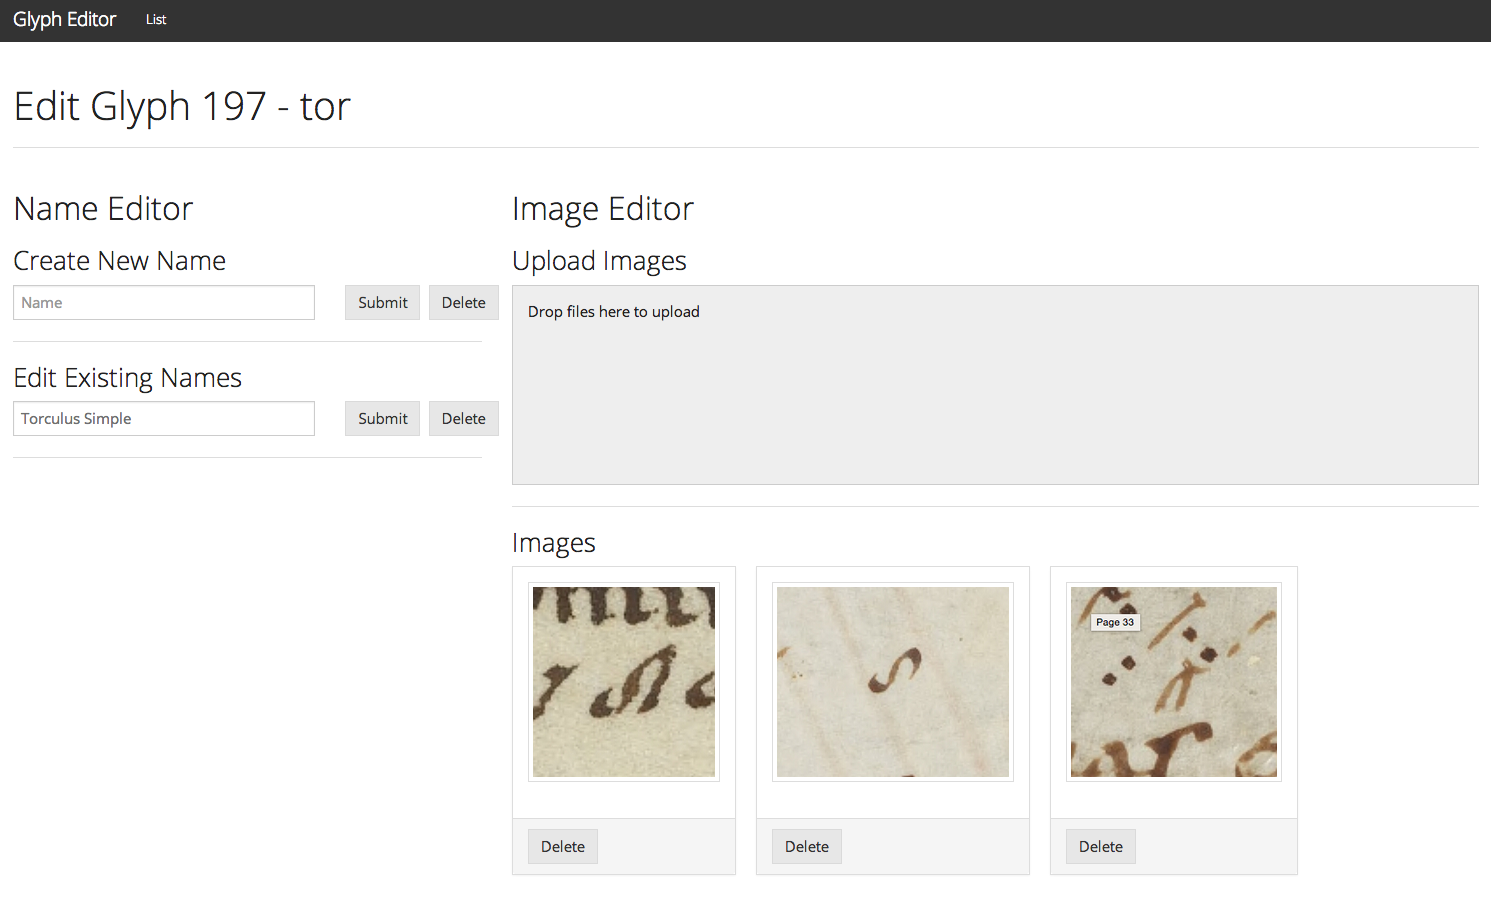
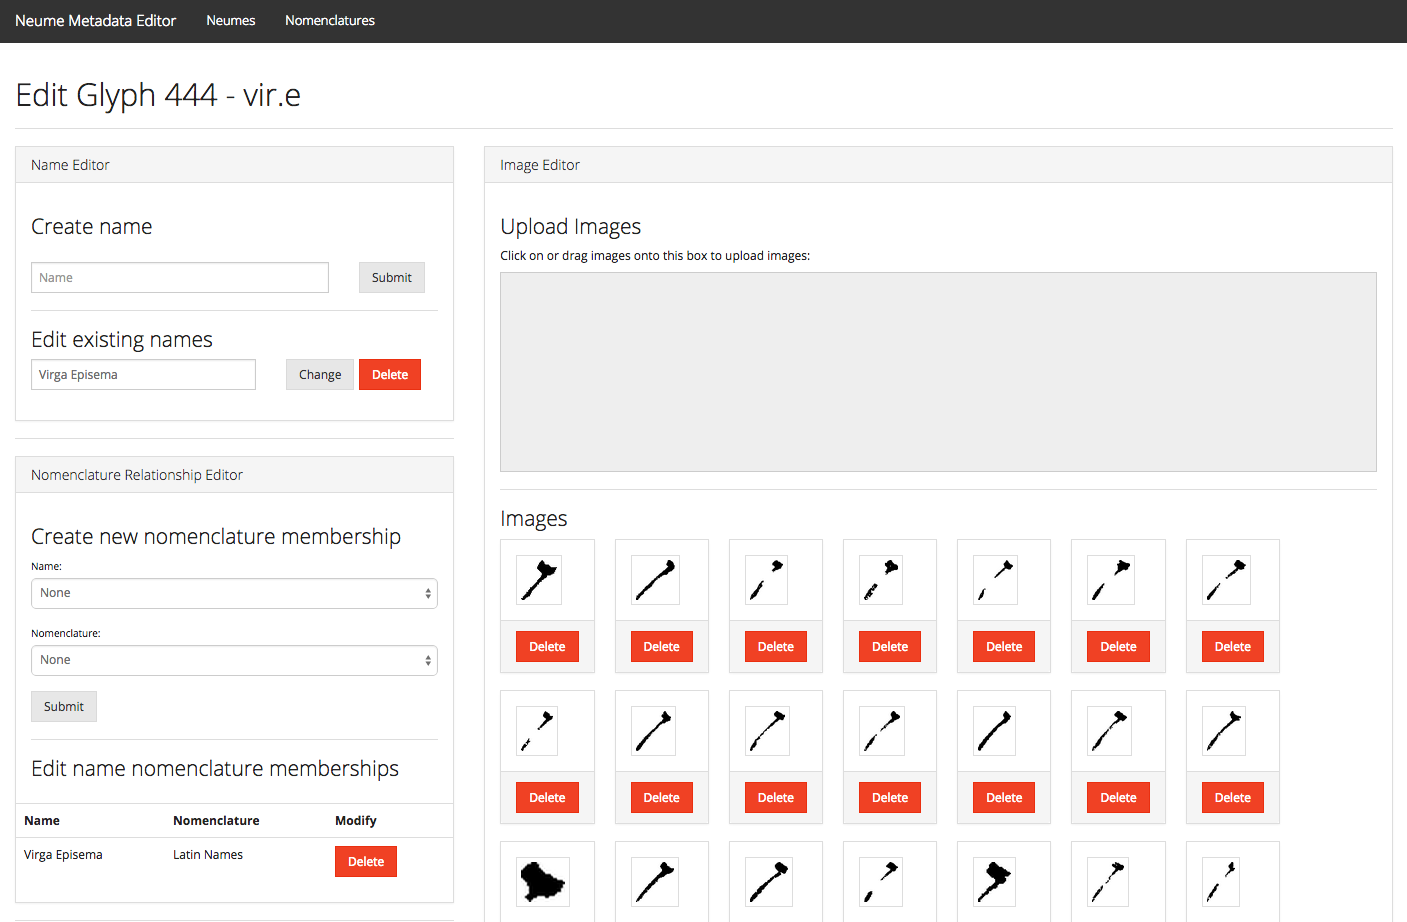
Sent to Ich

diff --git a/poster.tex b/poster.tex
@@ -83,20 +83,31 @@
 \begin{columns}
 \begin{column}{0.47\textwidth}
 
-\vspace{2.2cm}
+\vspace{-3.7cm}
 
 \begin{block}{Motivation}
-The Neume Metadata Editor was developed as part of the Cantus Ultimus project [1]. The goal of Cantus Ultimus is to create a graphical user interface for users to browse and search through high-quality scanned images of Medieval and Renaissance chant manuscripts using metadata and OMR technology. We wanted end-users to be able to construct search queries without needing prior knowledge about how the data is named in the Solr [2] search engine.  To construct such an interface, we needed a system for mapping names and images onto unique neume identifiers.  We developed the Neume Metadata Editor to satisfy these requirements.
+The Neume Metadata Editor was developed as part of the Cantus Ultimus project [1]. The goal of Cantus Ultimus is to create a graphical user interface for users to browse and search through high-quality scanned images of Medieval and Renaissance chant manuscripts using metadata and OMR technology. We wanted end-users to be able to construct search queries without needing prior knowledge about how the data is named in the Solr [2] search engine.  To construct such an interface, we needed a system for mapping names and images onto unique neume identifiers.
+%We developed the Neume Metadata Editor to satisfy these requirements.
 \end{block}
 \blockSpace{}
 
-\vspace{-1.7cm}
+\vspace{-2.5cm}
+
+%\begin{block}{}
+%\centering
+%\includegraphics[scale=1]{images/different-hands.png}
+% 
+%
+%Figure 1: Handwriting change in the St. Gallen 391 manuscript
+%\end{block}
+%\blockSpace{}
 
 \begin{block}{}
 \centering
-\includegraphics[scale=1]{images/different-hands.png} 
+\includegraphics[scale=2.5]{images/neume-comparison/neume1.png}\hspace{1em}
+\includegraphics[scale=1.85]{images/neume-comparison/neume2.png} 
 
-Figure 1: Handwriting change in the St. Gallen 391 manuscript
+Figure 1: St. Gallen Clivis (left) and Salzinnes Clivis (right)
 \end{block}
 \blockSpace{}
 
@@ -111,14 +122,13 @@ Figure 1: Handwriting change in the St. Gallen 391 manuscript
 \begin{easylist}[itemize]
 \ListProperties(Margin1=0cm, Margin2=3cm)
 # Names and images are unique objects that exist in relation to neume types.
-## Neume-to-name and neume-to-image relationships.
-## System can distinguish between neumes of the same type and neumes of different types.
-# Neume data can be entered manually or imported from MEI files.
-# Name from a set can be used to retrieve the neume identifier or the corresponding set of neume images.
-## Client applications can make these kinds of retrievals by using representational state transfer (REST) to communicate directly.
-# System avoids redundancy in how we index instances of neumes in our Cantus Ultimus search engine.
-## Represent neume types with single, canonical identifiers.
-## JavaScript search interface makes only one request to the Neume Metadata Editor and then handles the rest of the name-to-identifier translation on the client-side in real-time.
+# Neume-to-name and neume-to-image relationships.
+# System can distinguish between neumes of the same type and neumes of different types.
+%# Name from a set can be used to retrieve the neume identifier or the corresponding set of neume images.
+%## Client applications can make these kinds of retrievals by using representational state transfer (REST) to communicate directly.
+%# System avoids redundancy in how we index instances of neumes in our Cantus Ultimus search engine.
+# Represent neume types with single, canonical identifiers.
+%## JavaScript search interface makes only one request to the Neume Metadata Editor and then handles the rest of the name-to-identifier translation on the client-side in real-time.
 \end{easylist}
 
 % The Neume Metadata Editor treats names and images as unique objects that exist in relation to neume types. By establishing these neume-to-name and neume-to-image relationships our system can distinguish between neumes of the same type and neumes of different types. Researchers can enter neume data manually or import neume data from MEI files.
@@ -128,6 +138,16 @@ Figure 1: Handwriting change in the St. Gallen 391 manuscript
 
 % By using the Neume Metadata Editor to categorize neume types, we avoid redundancy in how we index instances of neumes in our Cantus Ultimus search engine. Rather than indexing multiple names for every single neume instance, we represent neume types with single, canonical identifiers. The JavaScript search interface makes only one request to the Neume Metadata Editor and then handles the rest of the name-to-identifier translation on the client-side in real-time.
 
+\vspace{-1.6cm}
+
+\begin{block}{}
+\centering
+\includegraphics[scale=1]{images/neume-list-interface.png} 
+
+Figure 2: The web interface prototype, showing a list of neumes, names, and images
+\end{block}
+\blockSpace{}
+
 \end{block}
 \end{column}
 \begin{column}{0.47\textwidth}
@@ -136,14 +156,13 @@ Figure 1: Handwriting change in the St. Gallen 391 manuscript
 \begin{easylist}[itemize]
 \ListProperties(Margin1=0cm, Margin2=3cm)
 # User-facing web application for editing neume metadata.  Users can:
-## Categorize neume glyphs by unique identifiers.
 ## Assign names to unique neume identifiers.
 ## Group names by user-defined nomenclatures.
 ## Assign glyph images to unique neume identifiers.
+## Upload GameraXML and MEI files to extract names and images.
 # RESTful API for easy integration with external client applications.  Client applications can:
-## Retrieve individual neumes to retrieve names and images.
-## Retrieve name sets for particular nomenclatures.
-## Retrieve image sets for particular names or unique identifiers.
+## Retrieve names and images for particular neumes and nomenclatures.
+## Create, modify, and delete  neumes, names, images, and nomenclatures.
 \end{easylist}
 \end{block}
 \blockSpace{}
@@ -154,7 +173,7 @@ Figure 1: Handwriting change in the St. Gallen 391 manuscript
 \centering
 \includegraphics[scale=1]{images/web-interface.png} 
 
-Figure 2: The web interface prototype, showing a ``Torculus Simple'' neume being edited
+Figure 3: The web interface prototype, showing a ``Virga Episema'' neume being edited
 \end{block}
 \blockSpace{}
 
@@ -174,7 +193,7 @@ This research was supported by the Social Sciences and Humanities Research Counc
 
 \blockSpace{}
 
-%\vspace{-2cm}
+\vspace{-3.5cm}
 
 \begin{block}{}
 \centering
